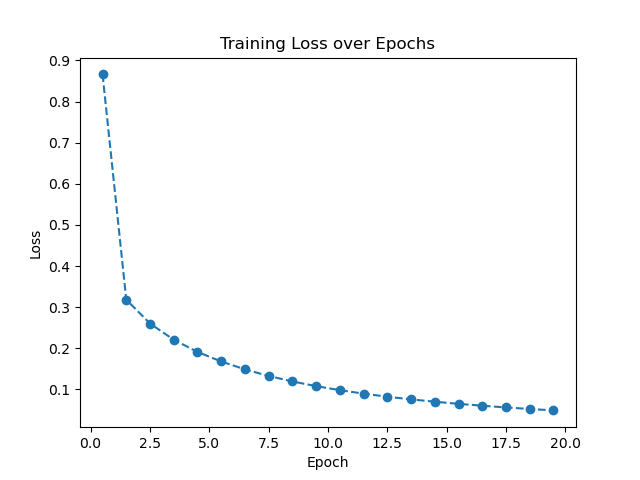
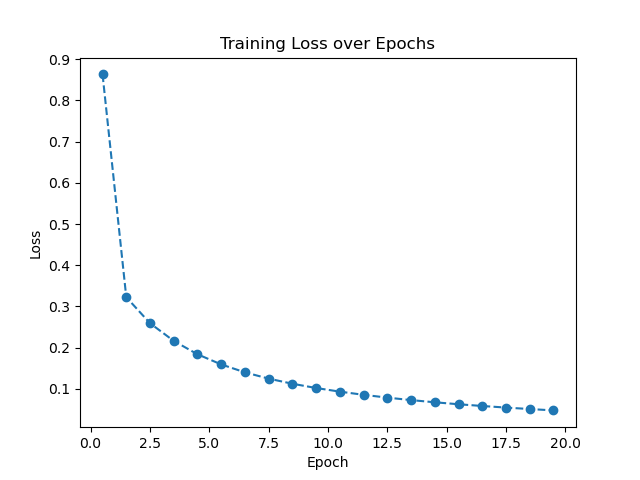
MNIST Completion

diff --git a/Source_Code_Template/script/stage_3_script/MNIST_Model/Training_Testing_Classifier.py b/Source_Code_Template/script/stage_3_script/MNIST_Model/Training_Testing_Classifier.py
@@ -2,6 +2,7 @@ import numpy as np
 import torch
 import torch.nn as nn
 from torch.optim import SGD
+from sklearn import metrics
 
 def train_model(trainingDL, model, n_epochs=20):
     opt = SGD(model.parameters(), lr=0.01)
@@ -37,11 +38,14 @@ def eval_model(testingDS, model):
     
     with torch.no_grad():
         model.eval()
-        numCorrect = 0
+        y_pred = []
+        y_true = []
         for (x, y) in testingDS:
             pred = model(x)
-            if torch.argmax(pred) == torch.argmax(y):
-                numCorrect += 1
+            y_pred.append(torch.argmax(pred))
+            y_true.append(torch.argmax(y))
+
     
-    print(len(testingDS))
-    print("Accuracy on entire test dataset: ", ((numCorrect/len(testingDS))*100))
+    print(metrics.classification_report(y_true, y_pred, digits=3))
+    #print(len(testingDS))
+    #print("Accuracy on entire test dataset: ", ((numCorrect/len(testingDS))*100))

diff --git a/Source_Code_Template/script/stage_3_script/MNIST_Model/mnist.py b/Source_Code_Template/script/stage_3_script/MNIST_Model/mnist.py
@@ -38,7 +38,7 @@ testingDL = DataLoader(testingDS, batch_size=20)
 mnist_cnn = MNIST_Classifier_CNN()
 
 # Train model
-'''
+
 epochs, losses, trained_model = train_model(trainingDL, mnist_cnn, 20)
 
 plt.plot(epochs.reshape(20,-1).mean(axis=1), losses.reshape(20,-1).mean(axis=1), "o--")
@@ -46,6 +46,6 @@ plt.xlabel("Epoch")
 plt.ylabel("Loss")
 plt.title("Training Loss over Epochs")
 plt.savefig("mnist_training_loss")
-'''
+
 trained_model = torch.load("checkpoint.pth")
 eval_model(testingDS, trained_model)
